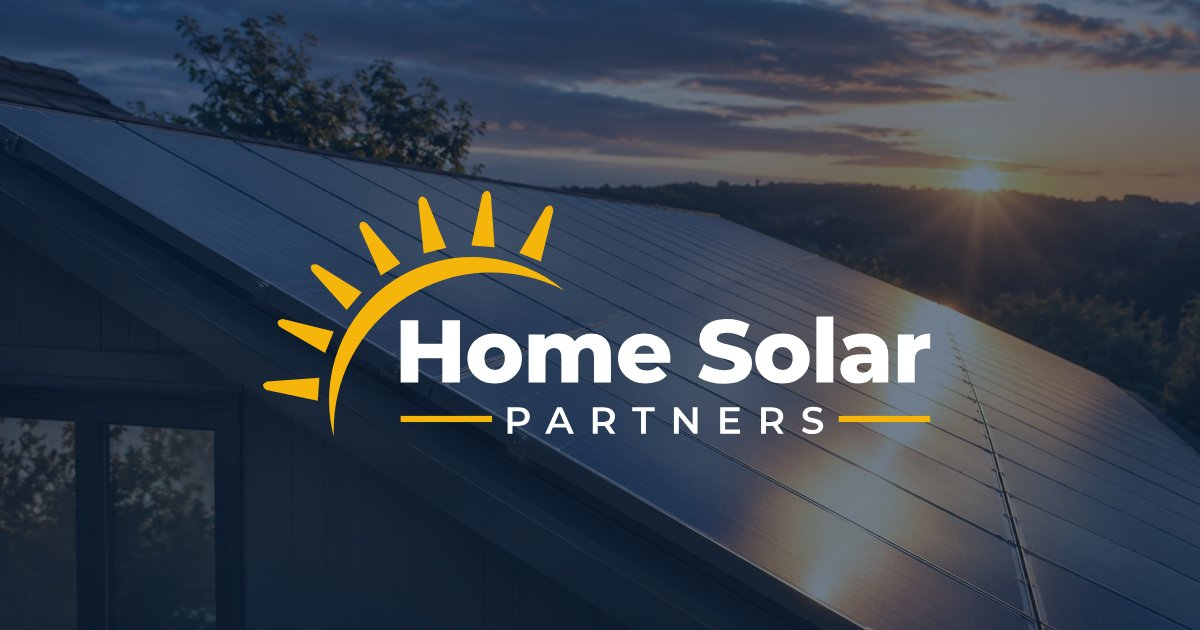
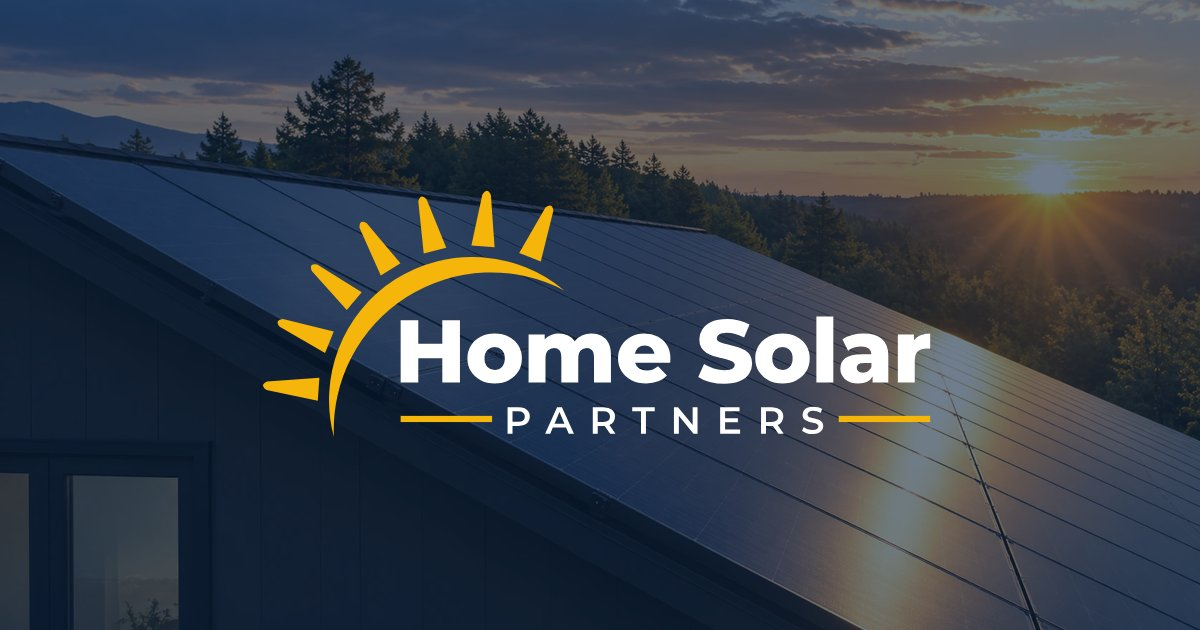
Swap hero to the pine-forest sunset rooftop image (mirrored)
Replaces the previous sunset image with the owner-supplied version
showing a pine forest and mountains, mirrored so the sun sits to the
right of the headline. Rebuilds the social preview; updates alt text,
dimensions, and README credit.

diff --git a/index.html b/index.html
@@ -33,7 +33,7 @@
 
   <link rel="preload" href="/assets/fonts/montserrat-latin-variable.woff2" as="font" type="font/woff2" crossorigin>
   <link rel="preload" as="image" type="image/webp"
-        imagesrcset="/assets/img/hero-sunset-black-solar-roof-768w.webp 768w, /assets/img/hero-sunset-black-solar-roof-1280w.webp 1280w, /assets/img/hero-sunset-black-solar-roof-1672w.webp 1672w"
+        imagesrcset="/assets/img/hero-sunset-forest-solar-roof-768w.webp 768w, /assets/img/hero-sunset-forest-solar-roof-1280w.webp 1280w, /assets/img/hero-sunset-forest-solar-roof-1671w.webp 1671w"
         imagesizes="100vw">
   <link rel="stylesheet" href="/assets/css/styles.css?v=1986af7">
 
@@ -85,10 +85,10 @@
     <!-- ============ HERO ============ -->
     <section class="hero" id="home" aria-labelledby="hero-title">
       <picture class="hero-media">
-        <img src="/assets/img/hero-sunset-black-solar-roof-1280w.webp"
-             srcset="/assets/img/hero-sunset-black-solar-roof-768w.webp 768w, /assets/img/hero-sunset-black-solar-roof-1280w.webp 1280w, /assets/img/hero-sunset-black-solar-roof-1672w.webp 1672w"
-             sizes="100vw" width="1672" height="941" fetchpriority="high"
-             alt="Sleek all-black solar panels on a home's roof glowing in the light of a sunset over wooded hills">
+        <img src="/assets/img/hero-sunset-forest-solar-roof-1280w.webp"
+             srcset="/assets/img/hero-sunset-forest-solar-roof-768w.webp 768w, /assets/img/hero-sunset-forest-solar-roof-1280w.webp 1280w, /assets/img/hero-sunset-forest-solar-roof-1671w.webp 1671w"
+             sizes="100vw" width="1671" height="941" fetchpriority="high"
+             alt="Sleek all-black solar panels on a modern home's roof glowing in the light of a sunset over a pine forest">
       </picture>
       <div class="hero-overlay" aria-hidden="true"></div>
 

diff --git a/README.md b/README.md
@@ -46,4 +46,4 @@ If either destination changes, update every link that points to it in `index.htm
 - **"Why Sunrun" figures** come from sunrun.com/about-us and investors.sunrun.com (customer count dated August 2024). Recheck periodically.
 
 ## Credits
-Photography: hero and social image supplied by Home Solar Partners (all-black rooftop panels at sunset; mirrored). Residential installation photo: U.S. Department of Energy (public domain), via the DOE Flickr account.
+Photography: hero and social image supplied by Home Solar Partners (all-black rooftop panels at sunset over a pine forest; mirrored). Residential installation photo: U.S. Department of Energy (public domain), via the DOE Flickr account.
